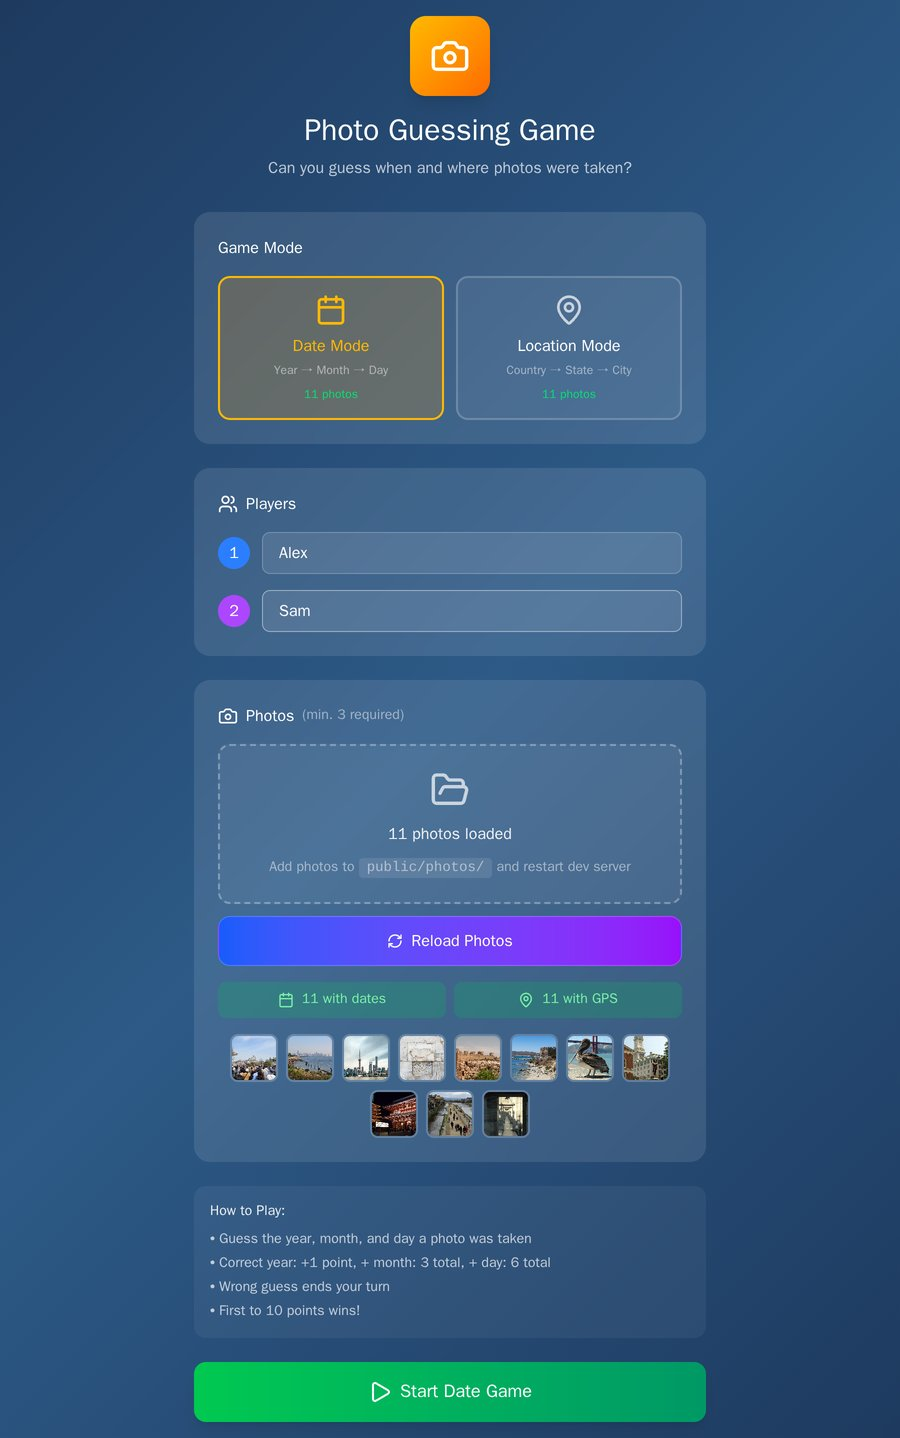
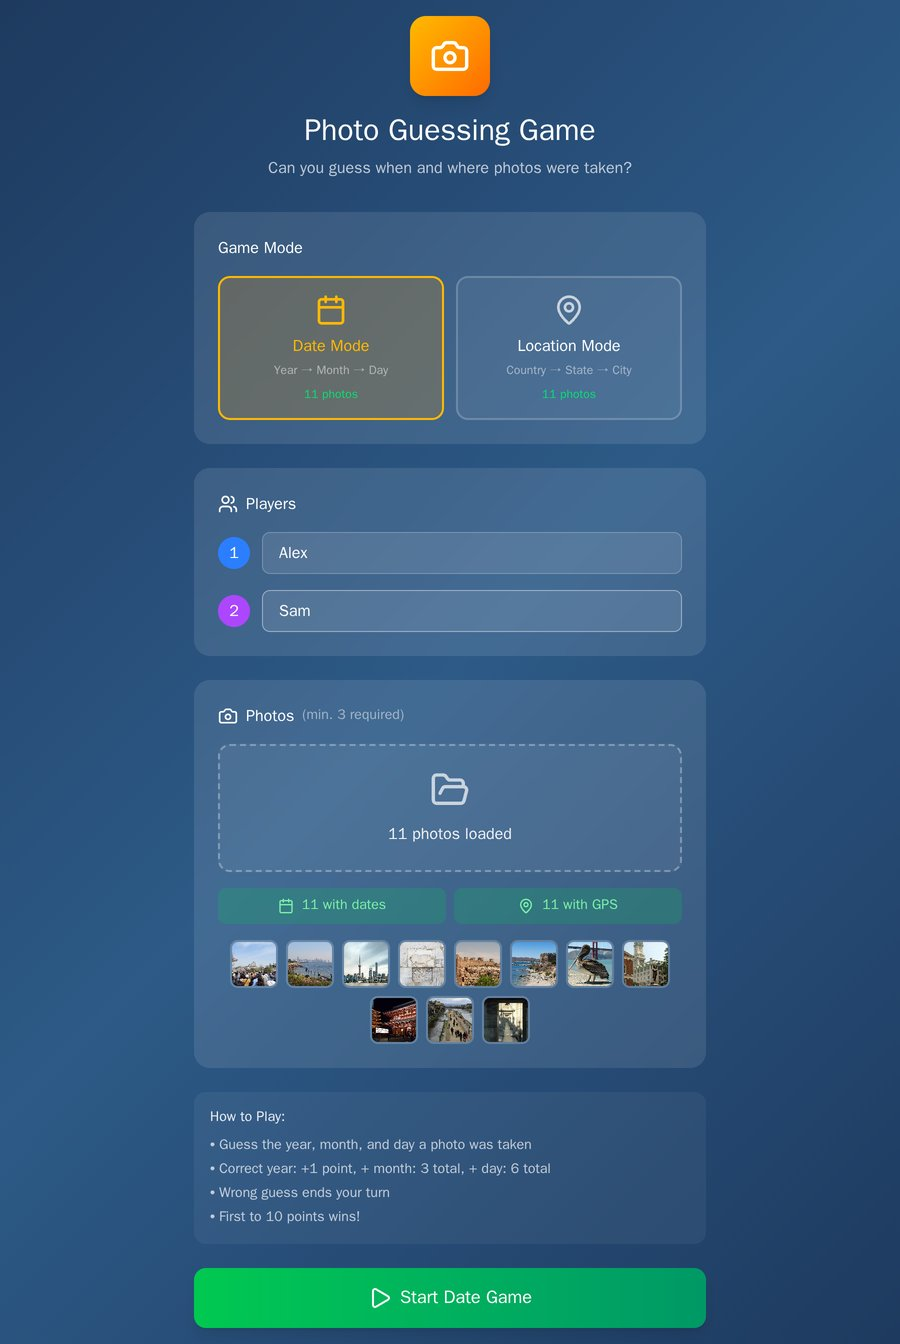
Sync from the development mono repo (8d5f4ba4f)
A squashed sync of the upstream changes since the last publish. This commit
builds on the existing published history rather than replacing it, so forks
and open pull requests stay mergeable.

diff --git a/src/components/PhotoLoader.jsx b/src/components/PhotoLoader.jsx
@@ -9,6 +9,10 @@ import { extractMetadataFromPhotos } from '../services/exifService';
 import { GAME_CONFIG } from '../data/constants';
 import useHaptics from '../hooks/useHaptics';
 
+// A production web build serves a fixed photo set: the add-photos hint and the
+// reload button are for the dev server, where public/photos/ can change.
+const IS_DEV_SERVER = import.meta.env.DEV;
+
 const PhotoLoader = () => {
   const allPhotos = useGameStore((state) => state.allPhotos);
   const loadPhotos = useGameStore((state) => state.loadPhotos);
@@ -167,7 +171,7 @@ const PhotoLoader = () => {
               : loading
                 ? isNative
                   ? 'Selecting photos...'
-                  : 'Loading photos from public/photos...'
+                  : 'Loading photos...'
                 : allPhotos.length > 0
                   ? `${allPhotos.length} photos loaded`
                   : isNative
@@ -176,7 +180,7 @@ const PhotoLoader = () => {
             }
           </div>
 
-          {!loading && !extractingMetadata && (
+          {!loading && !extractingMetadata && (isNative || IS_DEV_SERVER) && (
             <div className="text-white/50 text-sm">
               {isNative ? (
                 'Tap below to select photos with date/location data'
@@ -189,7 +193,7 @@ const PhotoLoader = () => {
       </motion.div>
 
       {/* Action button */}
-      {!loading && !extractingMetadata && (
+      {!loading && !extractingMetadata && (isNative || IS_DEV_SERVER) && (
         <motion.button
           onClick={isNative ? handleSelectPhotos : loadFromManifest}
           className="mt-3 w-full flex items-center justify-center gap-2 py-3 px-4

diff --git a/src/components/SetupScreen.jsx b/src/components/SetupScreen.jsx
@@ -7,6 +7,10 @@ import { GAME_CONFIG } from '../data/constants';
 import { formatPoints } from '../utils/dateUtils';
 import { fadeInUp, bounceIn, staggerContainer, staggerItem } from '../utils/animations';
 
+// Optional, set at build time: a page crediting the photos a web build ships
+// with (the public demo uses Wikimedia Commons photos).
+const PHOTO_CREDITS_URL = import.meta.env.VITE_PHOTO_CREDITS_URL;
+
 const SetupScreen = () => {
   const players = useGameStore((state) => state.players);
   const setPlayerName = useGameStore((state) => state.setPlayerName);
@@ -249,6 +253,14 @@ const SetupScreen = () => {
           <Play className="w-6 h-6" />
           Start {gameMode === GAME_CONFIG.MODES.LOCATION ? 'Location' : 'Date'} Game
         </motion.button>
+
+        {PHOTO_CREDITS_URL && (
+          <p className="mt-4 text-center text-xs text-white/50">
+            <a href={PHOTO_CREDITS_URL} className="underline hover:text-white/80">
+              Photo credits
+            </a>
+          </p>
+        )}
       </motion.div>
     </div>
   );

diff --git a/README.md b/README.md
@@ -50,6 +50,10 @@ One React code base runs in three places:
 - as a macOS desktop app ([Electron](https://www.electronjs.org/)), with photos
   picked from disk.
 
+**Play the web version at
+[photo-guessing-game.geoffmyers.com](https://photo-guessing-game.geoffmyers.com)**,
+with public-domain photos from Wikimedia Commons in place of your own.
+
 The dates come from each photo's EXIF metadata. The places come from its GPS
 position, looked up through OpenStreetMap's Nominatim service.
 
@@ -178,10 +182,18 @@ The web version plays the photos in `public/photos/`:
    `npm run generate-manifest -- --force` to redo them all, for example after
    changing the place-name language.
 
+A production build (`npm run build`) plays the photos it was built with, so it
+shows neither this hint nor a reload button.
+
 Photos and the manifest are ignored by git. To get place names in another
 language, set `geocoding.language` in `src/data/game-config.json` (or the
 `GEOCODE_LANGUAGE` environment variable for one run) to a language code such as
 `fr`.
+
+A build that ships someone else's photos should credit them. Set
+`VITE_PHOTO_CREDITS_URL` when building (for example
+`VITE_PHOTO_CREDITS_URL=/credits.html npm run build`) and the setup screen links
+to that page.
 
 ### Setting up a game
 
